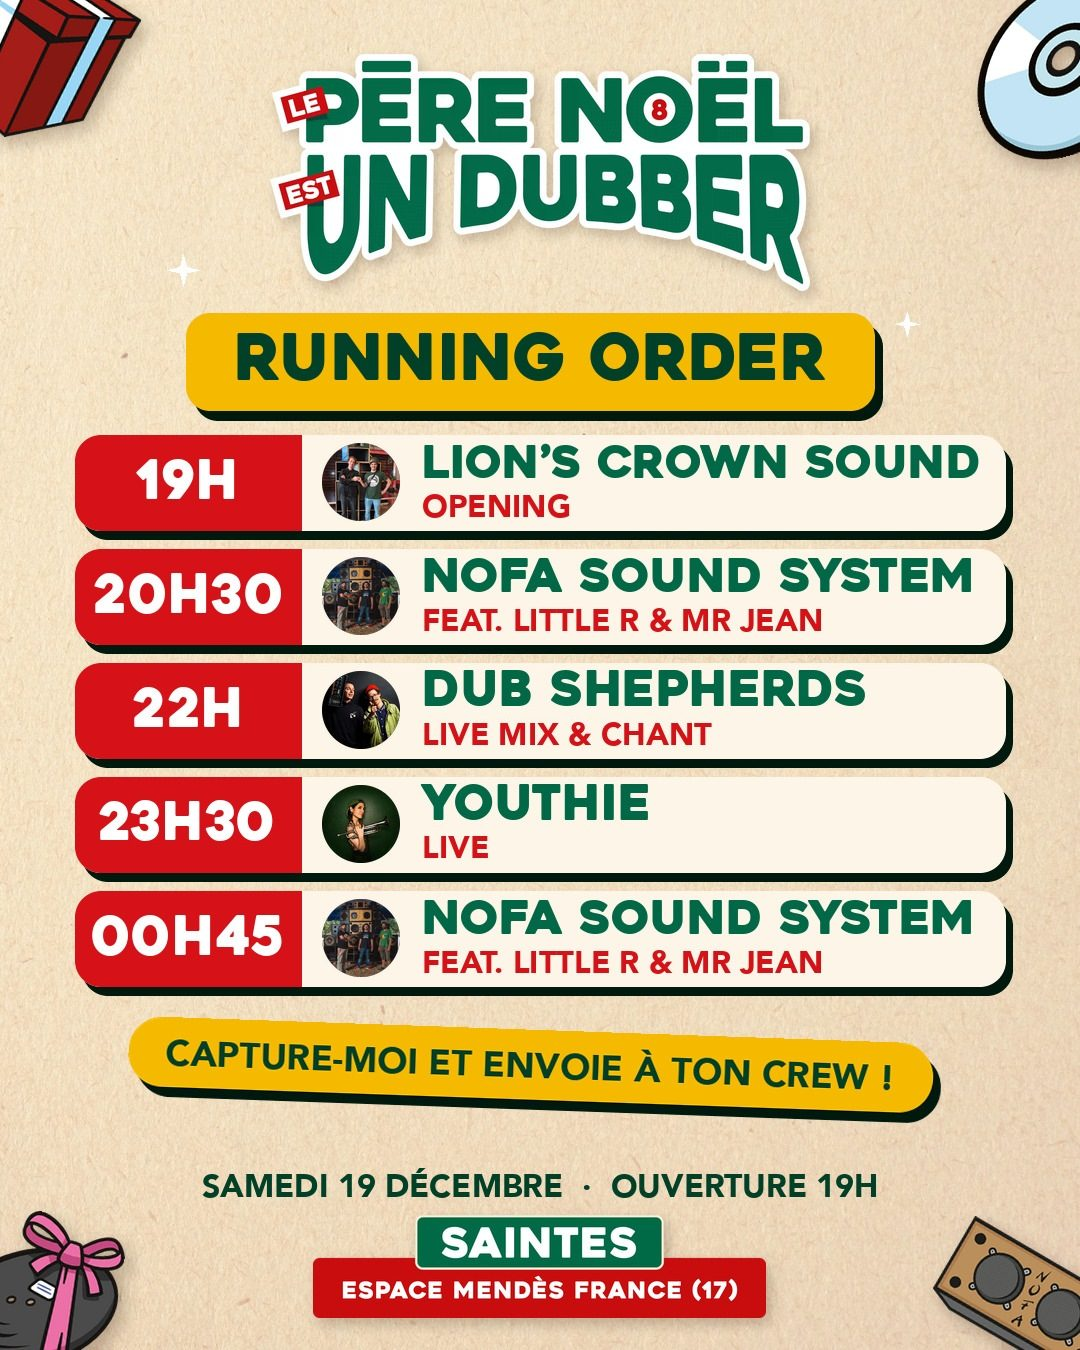
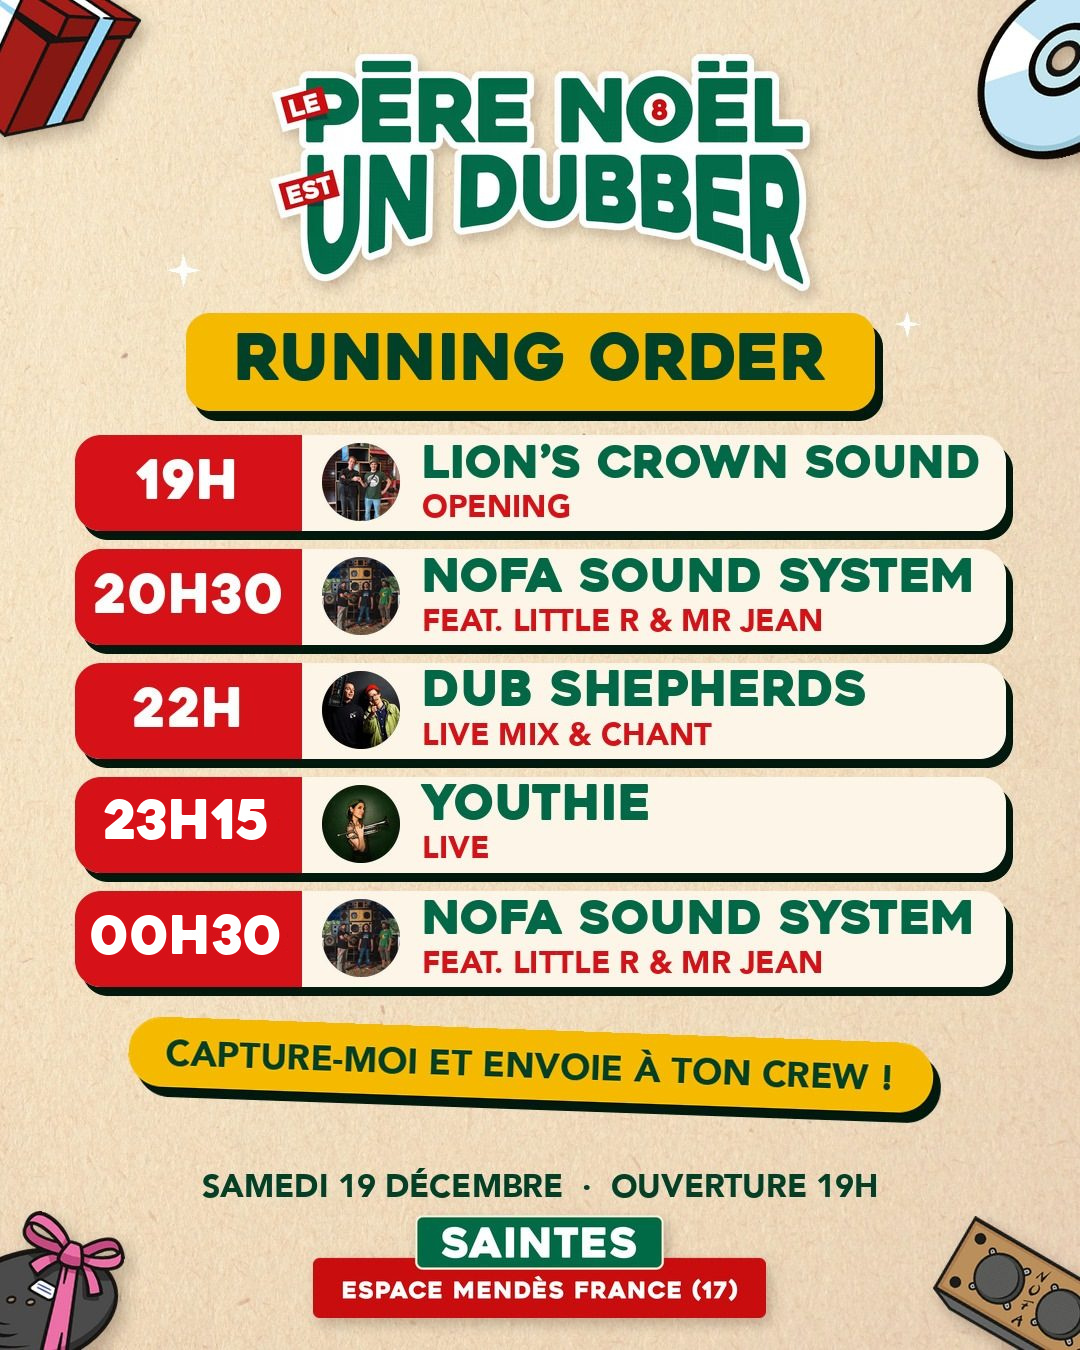
maj

Changed region(s): [[0.0917, 0.6533, 0.275, 0.7156], [0.0917, 0.5911, 0.275, 0.6222]]

diff --git a/index.html b/index.html
@@ -69,7 +69,7 @@
 <div class="eyebrow">Programmation</div><h2 class="ht"><img src="assets/img/titres/6188e88c48.webp" alt="" aria-hidden="true" width="650" height="129" style="width:5.95em"><span class="sr">Au menu</span> <span style="font-size:.6em;font-weight:600;white-space:nowrap">à partir de 19h</span></h2>
 <p class="lead">Live, MC, vinyles et 6 SCOOPS fraîchement upgradés, de quoi faire trembler Mendès France.</p>
 <div class="grid3" style="margin-top:28px"><article class="card artist"><div class="pic"><img src="assets/img/artistes/youthie.webp" alt="Youthie" width="1772" height="1772" loading="lazy" decoding="async"></div><div class="in"><small>Live instrumental</small><div class="nm"><h3>Youthie</h3><p class="alinks"><a class="ico" href="https://www.instagram.com/youthie_records/" target="_blank" rel="noopener" aria-label="Instagram : Youthie" title="Instagram : Youthie"><i class="mi" style="-webkit-mask-image:url(assets/img/icons/icon-ig.svg);mask-image:url(assets/img/icons/icon-ig.svg)" aria-hidden="true"></i></a><a class="ico" href="https://www.facebook.com/youthierecords" target="_blank" rel="noopener" aria-label="Facebook : Youthie" title="Facebook : Youthie"><i class="mi" style="-webkit-mask-image:url(assets/img/icons/icon-fb.svg);mask-image:url(assets/img/icons/icon-fb.svg)" aria-hidden="true"></i></a><a class="ico" href="https://open.spotify.com/artist/5sSrpKd2fbeHty0UnG8BOG" target="_blank" rel="noopener" aria-label="Spotify : Youthie" title="Spotify : Youthie"><i class="mi" style="-webkit-mask-image:url(assets/img/icons/icon-sp.svg);mask-image:url(assets/img/icons/icon-sp.svg)" aria-hidden="true"></i></a><a class="ico" href="https://www.youthie.fr" target="_blank" rel="noopener" aria-label="Site web : Youthie" title="Site web : Youthie"><i class="mi" style="-webkit-mask-image:url(assets/img/icons/icon-web.svg);mask-image:url(assets/img/icons/icon-web.svg)" aria-hidden="true"></i></a><a class="ico" href="https://www.youtube.com/@youthie4817" target="_blank" rel="noopener" aria-label="YouTube : Youthie" title="YouTube : Youthie"><i class="mi" style="-webkit-mask-image:url(assets/img/icons/icon-yt.svg);mask-image:url(assets/img/icons/icon-yt.svg)" aria-hidden="true"></i></a></p></div><p style="margin:0">Multi-instrumentiste et productrice inspirée, Youthie insuffle un vent d’originalité sur la scène dub actuelle. Armée de sa trompette, de sa flûte ou de son accordéon, elle fusionne les racines du roots jamaïcain avec des mélodies venues des quatre coins du monde (influences balkans, orientales et jazz). Un dub organique, cuivré et solaire qui promet de faire vibrer le dancehall.</p></div></article><article class="card artist"><div class="pic"><img src="assets/img/artistes/dub-shepherds.webp" alt="Dub Shepherds" width="1772" height="1772" loading="lazy" decoding="async"></div><div class="in"><small>Live mix &amp; chant</small><div class="nm"><h3>Dub Shepherds<span class="aka"> (BAT Records)</span></h3><p class="alinks"><a class="ico" href="https://www.instagram.com/dubshepherds/" target="_blank" rel="noopener" aria-label="Instagram : Dub Shepherds" title="Instagram : Dub Shepherds"><i class="mi" style="-webkit-mask-image:url(assets/img/icons/icon-ig.svg);mask-image:url(assets/img/icons/icon-ig.svg)" aria-hidden="true"></i></a><a class="ico" href="https://www.facebook.com/dubshepherds" target="_blank" rel="noopener" aria-label="Facebook : Dub Shepherds" title="Facebook : Dub Shepherds"><i class="mi" style="-webkit-mask-image:url(assets/img/icons/icon-fb.svg);mask-image:url(assets/img/icons/icon-fb.svg)" aria-hidden="true"></i></a><a class="ico" href="https://open.spotify.com/artist/469KICjSNL6OnooZXseKSE" target="_blank" rel="noopener" aria-label="Spotify : Dub Shepherds" title="Spotify : Dub Shepherds"><i class="mi" style="-webkit-mask-image:url(assets/img/icons/icon-sp.svg);mask-image:url(assets/img/icons/icon-sp.svg)" aria-hidden="true"></i></a><a class="ico" href="https://bat-records.com/label/dub-shepherds/" target="_blank" rel="noopener" aria-label="Site web : Dub Shepherds" title="Site web : Dub Shepherds"><i class="mi" style="-webkit-mask-image:url(assets/img/icons/icon-web.svg);mask-image:url(assets/img/icons/icon-web.svg)" aria-hidden="true"></i></a><a class="ico" href="https://www.youtube.com/@dubshepherds" target="_blank" rel="noopener" aria-label="YouTube : Dub Shepherds" title="YouTube : Dub Shepherds"><i class="mi" style="-webkit-mask-image:url(assets/img/icons/icon-yt.svg);mask-image:url(assets/img/icons/icon-yt.svg)" aria-hidden="true"></i></a></p></div><p style="margin:0">Cofondateurs du label-studio BAT Records, Jolly Joseph (chant &amp; lyrics, membre de Zentone) et Doctor Charty (musicien et producteur) façonnent un son reggae roots / rocksteady authentique, perpétuant la grande tradition du sound system où règnent les spring reverbs, les phasers, les high pass filters et les space echoes !</p></div></article><article class="card artist"><div class="pic"><img src="assets/img/artistes/nofa.webp" alt="NOFA Sound System" width="1772" height="1772" loading="lazy" decoding="async"></div><div class="in"><small>Full sono 6 scoops</small><span class="gst">guests Mr Jean (sax) &amp; Little R (MC)</span><div class="nm"><h3>NOFA Sound System</h3><p class="alinks"><a class="ico" href="https://www.instagram.com/nofasoundsystem/" target="_blank" rel="noopener" aria-label="Instagram : NOFA Sound System" title="Instagram : NOFA Sound System"><i class="mi" style="-webkit-mask-image:url(assets/img/icons/icon-ig.svg);mask-image:url(assets/img/icons/icon-ig.svg)" aria-hidden="true"></i></a><a class="ico" href="https://www.facebook.com/Nofasound" target="_blank" rel="noopener" aria-label="Facebook : NOFA Sound System" title="Facebook : NOFA Sound System"><i class="mi" style="-webkit-mask-image:url(assets/img/icons/icon-fb.svg);mask-image:url(assets/img/icons/icon-fb.svg)" aria-hidden="true"></i></a><a class="ico" href="https://husmusic1.bandcamp.com" target="_blank" rel="noopener" aria-label="Bandcamp : NOFA Sound System" title="Bandcamp : NOFA Sound System"><i class="mi" style="-webkit-mask-image:url(assets/img/icons/icon-bc.svg);mask-image:url(assets/img/icons/icon-bc.svg)" aria-hidden="true"></i></a><a class="ico" href="https://www.youtube.com/@nofasoundsystem2180" target="_blank" rel="noopener" aria-label="YouTube : NOFA Sound System" title="YouTube : NOFA Sound System"><i class="mi" style="-webkit-mask-image:url(assets/img/icons/icon-yt.svg);mask-image:url(assets/img/icons/icon-yt.svg)" aria-hidden="true"></i></a></p></div><p style="margin:0">Depuis près de 20 ans, NOFA diffuse une sélection 100 % vinyles, militante et empreinte de spiritualité, sur sa sono artisanale construite dans la plus pure tradition jamaïcaine des années 70. En un mot comme en plusieurs, NOFA : No One Fights Alone.</p></div></article><article class="card artist"><div class="pic"><img src="assets/img/artistes/little-r.webp" alt="Little R" width="1772" height="1772" loading="lazy" decoding="async"></div><div class="in"><small>MC · guest de NOFA</small><div class="nm"><h3>Little R</h3><p class="alinks"><a class="ico" href="https://www.instagram.com/liiittle_r/" target="_blank" rel="noopener" aria-label="Instagram : Little R" title="Instagram : Little R"><i class="mi" style="-webkit-mask-image:url(assets/img/icons/icon-ig.svg);mask-image:url(assets/img/icons/icon-ig.svg)" aria-hidden="true"></i></a><a class="ico" href="https://www.facebook.com/profile.php?id=100043367648362" target="_blank" rel="noopener" aria-label="Facebook : Little R" title="Facebook : Little R"><i class="mi" style="-webkit-mask-image:url(assets/img/icons/icon-fb.svg);mask-image:url(assets/img/icons/icon-fb.svg)" aria-hidden="true"></i></a><a class="ico" href="https://open.spotify.com/artist/6Iyep64H1NAzgj1WBhPWWX" target="_blank" rel="noopener" aria-label="Spotify : Little R" title="Spotify : Little R"><i class="mi" style="-webkit-mask-image:url(assets/img/icons/icon-sp.svg);mask-image:url(assets/img/icons/icon-sp.svg)" aria-hidden="true"></i></a></p></div><p style="margin:0">Figure de la scène sound system depuis les années 2000, avec de nombreuses sorties et collaborations (Kanka, Weeding Dub, Dub Machinist, Miniman, Roots Zombie…), Little R viendra poser son flow énergique, entre vibes roots, steppers et sonorités digitales, pour enflammer les sessions avec son intensité inna Digital Dub Style.</p></div></article><article class="card artist"><div class="pic"><img src="assets/img/artistes/lions-crown.webp" alt="Lion’s Crown Sound" width="1772" height="1772" loading="lazy" decoding="async"></div><div class="in"><small>Opening</small><div class="nm"><h3>Lion’s Crown Sound</h3><p class="alinks"><a class="ico" href="https://www.instagram.com/lions_crown_sound_system/" target="_blank" rel="noopener" aria-label="Instagram : Lion’s Crown Sound" title="Instagram : Lion’s Crown Sound"><i class="mi" style="-webkit-mask-image:url(assets/img/icons/icon-ig.svg);mask-image:url(assets/img/icons/icon-ig.svg)" aria-hidden="true"></i></a><a class="ico" href="https://www.facebook.com/profile.php?id=100094031743222" target="_blank" rel="noopener" aria-label="Facebook : Lion’s Crown Sound" title="Facebook : Lion’s Crown Sound"><i class="mi" style="-webkit-mask-image:url(assets/img/icons/icon-fb.svg);mask-image:url(assets/img/icons/icon-fb.svg)" aria-hidden="true"></i></a></p></div><p style="margin:0">Actifs depuis 2023, Kemaroots et Thib’ Operator portent la relève rochelaise. Ils ouvriront le bal en faisant vibrer les basses de la sono avec une sélection exigeante, strictly vinyles !</p></div></article><article class="card artist"><div class="pic"><img src="assets/img/artistes/mr-jean.webp" alt="Mr Jean" width="900" height="900" loading="lazy" decoding="async"></div><div class="in"><small>Sax · guest de NOFA</small><div class="nm"><h3>Mr Jean</h3><p class="alinks"><a class="ico" href="https://www.instagram.com/ensemblenationaldereggae/" target="_blank" rel="noopener" aria-label="Instagram : Mr Jean" title="Instagram : Mr Jean"><i class="mi" style="-webkit-mask-image:url(assets/img/icons/icon-ig.svg);mask-image:url(assets/img/icons/icon-ig.svg)" aria-hidden="true"></i></a><a class="ico" href="https://www.facebook.com/jean.guietcanet" target="_blank" rel="noopener" aria-label="Facebook : Mr Jean" title="Facebook : Mr Jean"><i class="mi" style="-webkit-mask-image:url(assets/img/icons/icon-fb.svg);mask-image:url(assets/img/icons/icon-fb.svg)" aria-hidden="true"></i></a><a class="ico" href="https://open.spotify.com/artist/5oJC14mhgGNsYIiGhdGnzk" target="_blank" rel="noopener" aria-label="Spotify : Mr Jean" title="Spotify : Mr Jean"><i class="mi" style="-webkit-mask-image:url(assets/img/icons/icon-sp.svg);mask-image:url(assets/img/icons/icon-sp.svg)" aria-hidden="true"></i></a></p></div><p style="margin:0">Professeur de saxophone dans la région bordelaise, Mr Jean se consacre à son instrument au sein de nombreuses formations et aux côtés de différents artistes : Pedibus Orchestra (orchestre de rue), Klem Cofee (chanson française), Déclic Circus et Cirk’onflex (cirque), divers spectacles de théâtre, Malikal (musiques du monde), LiDiop (reggae) et plusieurs formations jazz. Il improvise aussi avec DJ Kriis sur de la drum and bass. Cofondateur de l’Ensemble National de Reggae (ENR), il sillonne les routes de France et d’Europe depuis plus de 10 ans.</p></div></article></div>
-<div id="runningorder" hidden style="margin:28px auto 0;max-width:560px;border-radius:18px;overflow:hidden;box-shadow:0 6px 0 #00301a"><a href="assets/img/running-order-pneud8.jpg" download title="Télécharger le running order"><img src="assets/img/running-order-pneud8.jpg" alt="Running order du samedi 19 décembre. 19h Lion’s Crown Sound (opening), 20h30 NOFA Sound System feat. Little R et Mr Jean, 22h Dub Shepherds (live mix et chant), 23h30 Youthie (live), 00h45 NOFA Sound System feat. Little R et Mr Jean" width="1080" height="1350" loading="lazy" decoding="async" style="display:block;width:100%;height:auto"></a></div>
+<div id="runningorder" hidden style="margin:28px auto 0;max-width:560px;border-radius:18px;overflow:hidden;box-shadow:0 6px 0 #00301a"><a href="assets/img/running-order-pneud8.jpg" download title="Télécharger le running order"><img src="assets/img/running-order-pneud8.jpg" alt="Running order du samedi 19 décembre. 19h Lion’s Crown Sound (opening), 20h30 NOFA Sound System feat. Little R et Mr Jean, 22h Dub Shepherds (live mix et chant), 23h15 Youthie (live), 00h30 NOFA Sound System feat. Little R et Mr Jean" width="1080" height="1350" loading="lazy" decoding="async" style="display:block;width:100%;height:auto"></a></div>
 <script>try{if(Date.now()>=Date.parse('2026-12-12T06:00:00+01:00')){var r=document.getElementById('runningorder');if(r)r.hidden=false}}catch(e){}</script>
 <img class="ill" src="assets/img/illus/table-mixage.webp" alt="Illustration d’une édition précédente : le Père Noël à la table de mixage" width="900" height="318" loading="lazy" decoding="async" style="width:min(440px,85%);margin-top:40px">
 <h3 id="playlist" style="margin-top:28px">La playlist de la soirée</h3>
@@ -104,7 +104,7 @@
 <li><b>Sortie</b><span>Sortie non définitive sur présentation du bracelet remis à l’entrée.</span></li>
 <li><b>Accessibilité</b><span>Lieu accessible à tous les handicaps. Tout le monde est le bienvenu, dans le respect et la bienveillance.</span></li>
 <li><b>Contact</b><span><a href="mailto:assojumparound@gmail.com">assojumparound@gmail.com</a>, ou sur Messenger / Instagram.</span></li>
-</ul><div class="card ro-auto" data-show-from="2026-12-12T06:00:00+01:00" hidden style="margin-top:20px"><h3>Horaires de passage</h3><ul class="facts" style="margin:0"><li><b>19h</b><span><strong>Lion’s Crown Sound</strong> · warm up</span></li><li><b>20h30</b><span><strong>NOFA Sound System</strong> · feat. Little R &amp; Mr Jean</span></li><li><b>22h</b><span><strong>Dub Shepherds</strong> · live mix &amp; chant</span></li><li><b>23h30</b><span><strong>Youthie</strong> · live</span></li><li><b>00h45</b><span><strong>NOFA Sound System</strong> · feat. Little R &amp; Mr Jean</span></li></ul></div><script>(function(){var n=document.querySelectorAll(".ro-auto[data-show-from]");for(var i=0;i<n.length;i++){if(Date.now()>=new Date(n[i].getAttribute("data-show-from")).getTime())n[i].hidden=false;}})();</script></div>
+</ul><div class="card ro-auto" data-show-from="2026-12-12T06:00:00+01:00" hidden style="margin-top:20px"><h3>Horaires de passage</h3><ul class="facts" style="margin:0"><li><b>19h</b><span><strong>Lion’s Crown Sound</strong> · warm up</span></li><li><b>20h30</b><span><strong>NOFA Sound System</strong> · feat. Little R &amp; Mr Jean</span></li><li><b>22h</b><span><strong>Dub Shepherds</strong> · live mix &amp; chant</span></li><li><b>23h15</b><span><strong>Youthie</strong> · live</span></li><li><b>00h30</b><span><strong>NOFA Sound System</strong> · feat. Little R &amp; Mr Jean</span></li></ul></div><script>(function(){var n=document.querySelectorAll(".ro-auto[data-show-from]");for(var i=0;i<n.length;i++){if(Date.now()>=new Date(n[i].getAttribute("data-show-from")).getTime())n[i].hidden=false;}})();</script></div>
 <div><div class="card" style="margin-bottom:20px"><h3>Zone de respect mutuel</h3><p style="margin:0">Zéro tolérance pour les comportements discriminatoires, racistes, sexistes, LGBTQIA+phobes et les violences et harcèlements sexistes et sexuels (VHSS). Respecte-toi, respecte les autres et veille sur tes potes.</p></div>
 <div class="card"><h3>Prévention &amp; gobelets</h3><p style="margin:0">Stand de prévention et de réduction des risques sur place. Au bar, les gobelets sont consignés : rapporte-le ou garde-le en souvenir.</p></div></div>
 </div></section>
